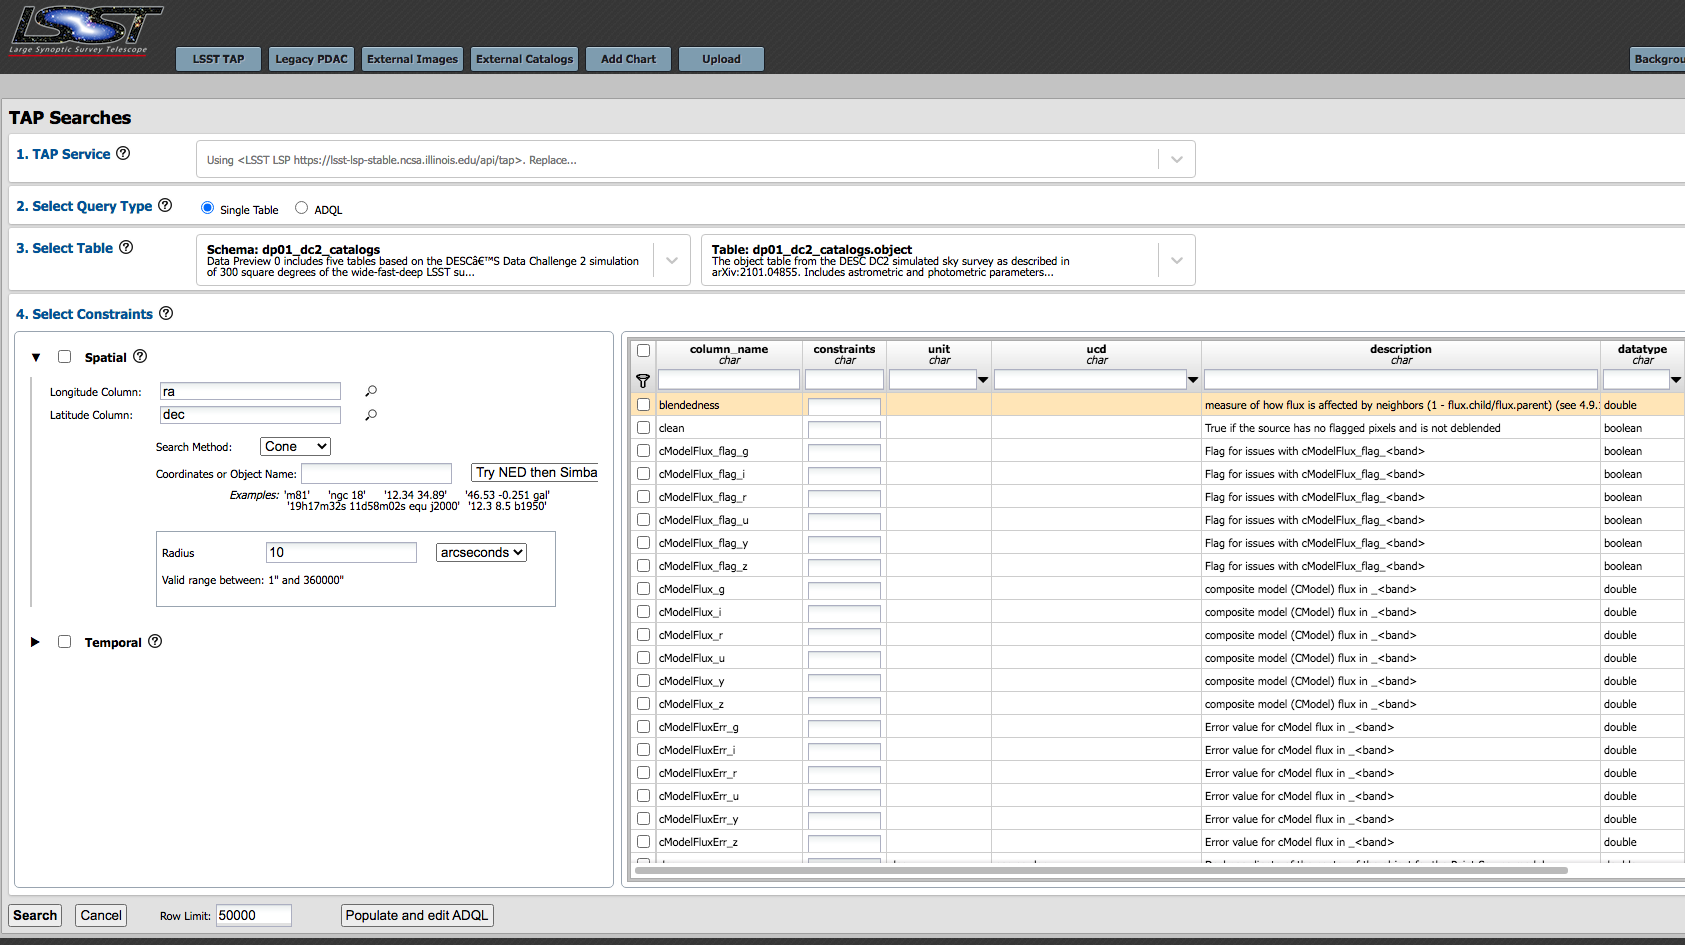
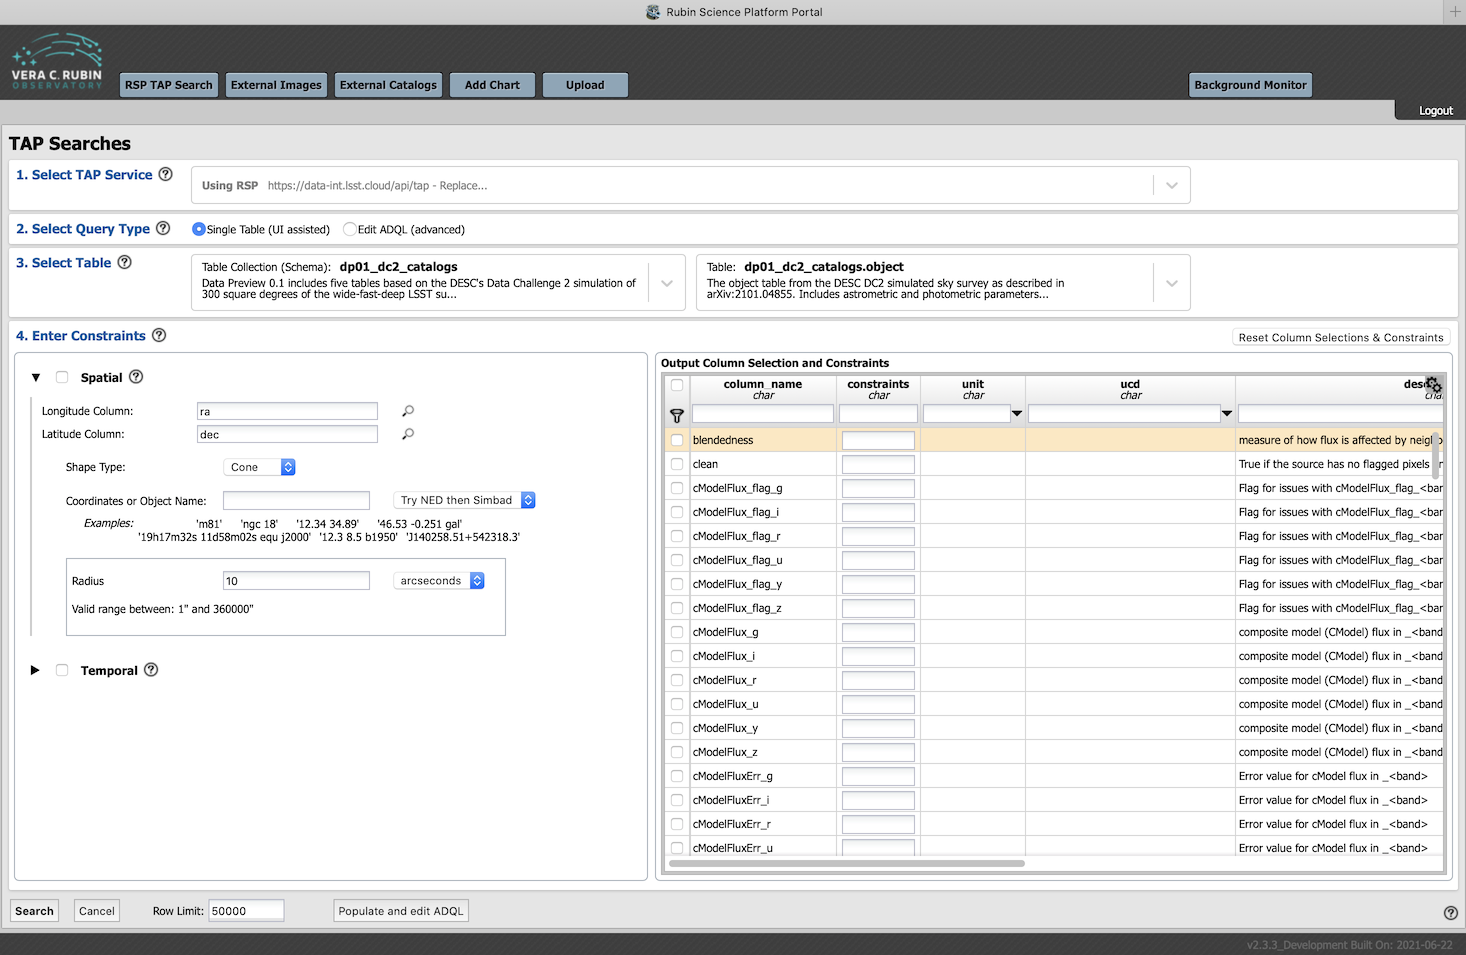
Update to DP0.1 Portal appearance; other small edits.

diff --git a/data-access-analysis-tools/index-portal-intro.rst b/data-access-analysis-tools/index-portal-intro.rst
@@ -32,10 +32,10 @@ Log in to the Portal Aspect by clicking on the "Portal" panel of the main landin
 The Portal's User Interface
 ===========================
 
-Across the top is a menu bar of interface options, but the DP0 data set is only accessed via the :ref:`Data-Access-Analysis-Tools-TAP`.
+Across the top is a menu bar of interface options, but the DP0 data set is only accessed via the :ref:`Data-Access-Analysis-Tools-TAP`, reached via the "RSP TAP Search" button.
 Under **TAP Searches** there are four steps.
 
-**1. TAP Service**: Leave this as the default `https://data.lsst.cloud/api/tap` to access DP0 data.
+**1. Select TAP Service**: Leave this as the default "Using RSP" (`https://data.lsst.cloud/api/tap`) to access DP0 data.
 
 
 .. _single-table-queries:
@@ -43,25 +43,26 @@ Under **TAP Searches** there are four steps.
 Single Table Queries
 ====================
 
-**2. Select Query Type**: Select 'Single Table' to query via the single-table interface (default).
+**2. Select Query Type**: Select 'Single Table (UI assisted)' to query via the single-table interface (default).
 
 **3. Select Table**: Drop down menus of available tables.
-For DP0 data, choose the "Schema: dp01_dc2_catalogs", and then choose the table to query (see the :ref:`DP0-1-Data-Products-DPDD` for a reminder of what tables are available).
+For DP0 data, choose the "Table Collection (Schema): dp01_dc2_catalogs", and then choose the table to query (see the :ref:`DP0-1-Data-Products-DPDD` for a reminder of what tables are available).
 The table view at lower right will automatically update to match the selected table.
 
-**4. Select Contraints**: Only Spatial constraints apply for DP0.1.
+**4. Enter Contraints**: Only Spatial constraints apply for DP0.1.
 The longitude and latitude columns will automatically update to be the correct column names for right ascension and declination for the selected table (usually `ra` and `dec` or `coord_ra` and `coord_dec`).
 If a non-existent column name is entered the box will highlight red in indication of the error.
-Choose the desired search method, `Cone` or `Polygon`, and the appropriate instructions for the search terms will appear.
+Choose the desired shape type for a spatial search, `Cone` or `Polygon`, and the appropriate instructions for the search terms will appear.
 Keeping the search area to a minimum will keep processing times short and returned subsets small and manageable.
 
-*Note: The examples under the box for coordinates are object names as examples of the formatting only. Those examples are not guaranteed to be in the accessible data sets. The central coordinates for DC2, in decimal degrees, are: 61.863 -35.790. (See Table 2 of `The LSST DESC DC2 Simulated Sky Survey <https://ui.adsabs.harvard.edu/abs/2021ApJS..253...31L/abstract>`_.)*
+*Note: The examples under the box for coordinates are object names as examples of the syntax and formatting only. Those examples are not guaranteed to be in the accessible data sets. The central coordinates for DC2, in decimal degrees, are: 61.863 -35.790. (See Table 2 of `The LSST DESC DC2 Simulated Sky Survey <https://ui.adsabs.harvard.edu/abs/2021ApJS..253...31L/abstract>`_.)*
 
 *Note: Although there are two options for Constraints, Spatial and Temporal, for DP0.1 all of the catalog data that is available through the Portal is from the coadded DC2 images, and does not contain time-domain information.*
 
-**Table View**: The table to the right of "Select Constraints" enables additional search constraints.
-Use the leftmost boxes select the columns to be returned by the query.
+**Table View**: The table to the right of "Select Constraints" enables applying additional search constraints on the columns in the selected table.
+Use the checkboxes in the leftmost column to select the columns to be returned by the query.
 Use the funnel icon to only view selected columns.
+Many of the attributes of the table columns in the DC2 datasets are blank, but are expected to be populated in future Data Preview and production Rubin datasets.
 
 .. figure:: /_static/portal_table_view.png
     :name: portal_table_view
@@ -75,8 +76,15 @@ Mouse-over to view pop-up boxes with instructions.
 Remove filters and reset the table view at any time using the buttons above the upper right corner of the table (not shown in image above).
 
 If desired, convert table view queries to `ADQL Queries` using the "Populate and Edit ADQL" button at the bottom of the page.
+This can enable entering more complex constraints that cannot be expressed against individual columns.
 
 **Search:** Press the search button at lower left when ready to execute.
+The `Row Limit` may be changed to apply an upper bound to the number of rows returned.
+The Portal can work effectively with datasets with up to a million rows, or even more; however, in the present implementation of the RSP it is advisable to limit the number of columns requested for queries expected to return results on such a scale: `SELECT *` for 100,000+ rows can return datasets of unwieldy total size.
+
+*Note: Because of the implementation of the Rubin `Qserv` database, it is not recommended to use the row limit alone in order to get a "sampling" of data.
+Queries with only a row limit can run for much longer than one might intuitively expect; applying a spatial constrain is likely to return a result more quickly.*
+
 The example in the image below queries the dp01_dc2_catalogs.object table using a cone search centered on 61.863 -35.790 in decimal degrees (the approximate center of the DC2 region) with a 200 arcsecond radius.
 The search will return data in columns ra, dec, mag_g, and mag_i for all objects with mag_g and mag_i brighter than 24th magnitude.
 
@@ -114,7 +122,7 @@ Select other columns to use, change the symbol type and color, and so forth, and
 
     The plot settings pop-up window.
 
-Additional cuts can be applied to the plotted data using the table query boxes, such as in the image below where a limit of mag_g brighter than 22 mag is used.
+Additional cuts can be applied to the plotted data using the table query boxes, such as in the image below where a limit of `mag_g` brighter than 22 mag is used.
 Note that corresponding plot point for the selected row in the table is differently colored, and that hovering the mouse over the plotted data will show the x and y values in a pop-up window.
 
 .. figure:: /_static/portal_results_final.png
@@ -129,7 +137,9 @@ See also :ref:`Examples-DP0-1-Portal` for additional demonstrations of how to us
 ADQL Queries
 ============
 
-**2. Select Query Type**: Select 'ADQL' to query via the ADQL interface. ADQL, `Astronomical Data Query Language <https://www.ivoa.net/documents/ADQL/>`_, is the language used by  the `IVOA <https://ivoa.net>`_ to represent astronomy queries posted to Virtual Observatory (VO) services, such as the Rubin LSST TAP service. ADQL is based on the Structured Query Language (SQL).
+**2. Select Query Type**: Select 'Edit ADQL (advanced)' to query via the ADQL interface.
+ADQL, `Astronomical Data Query Language <https://www.ivoa.net/documents/ADQL/>`_, is the language used by the `IVOA <https://ivoa.net>`_ to represent astronomy queries posted to Virtual Observatory (VO) services, such as the Rubin LSST TAP service.
+ADQL is based on the Structured Query Language (SQL).
 
 **3. Advanced ADQL**: When ADQL is selected as the query type, the interface in step 3 changes to provide a free-form block into which ADQL queries can be entered directly. The query excuted in the :ref:`single-table-queries` example above can be expressed in ADQL as follows:
 
@@ -189,5 +199,7 @@ To get the detailed list of columns available in the Object table, their associa
    tap_schema.columns.description
    FROM tap_schema.columns
    WHERE tap_schema.columns.table_name = 'dp01_dc2_catalogs.object'
+
+This produces a subset of the data shown in the lower right pane of the Portal's **Single Table** query screen, described ablve.
 
 See also :ref:`Examples-DP0-1-Notebooks` for additional demonstrations of how to use the Portal's Single Table Query.
